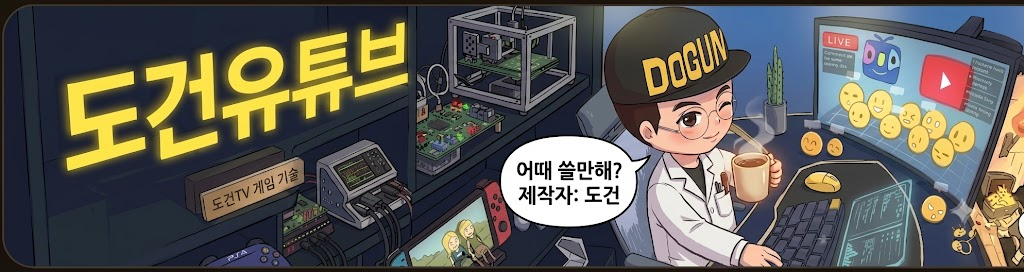
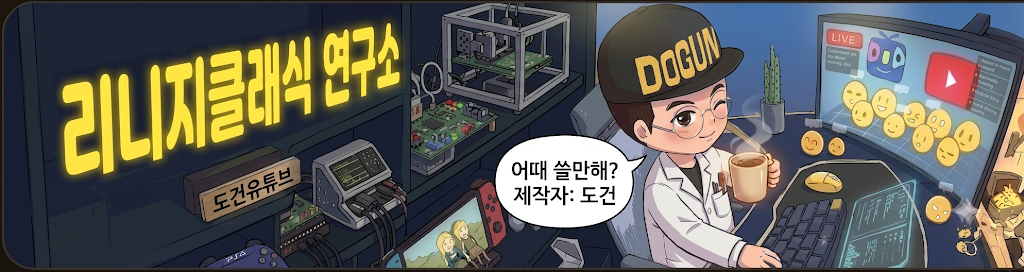
홈 최상단 헤드 이미지를 리니지클래식 연구소 배너로 바꿉니다.

diff --git a/guide/index.html b/guide/index.html
@@ -216,7 +216,7 @@
 <body>
   <div class="wrap">
     <div class="banner-row">
-      <img src="banner.png" alt="도건유튜브">
+      <img src="banner.png?v=2" alt="리니지클래식 연구소">
       <a class="member-cta" href="https://www.youtube.com/channel/UCk6f0jViRYWOi5BcHaDLZXQ/join" target="_blank" rel="noopener">
         <strong>도건형 커피값 투척</strong>
         <span>+멤버쉽가입 여기클릭</span>
